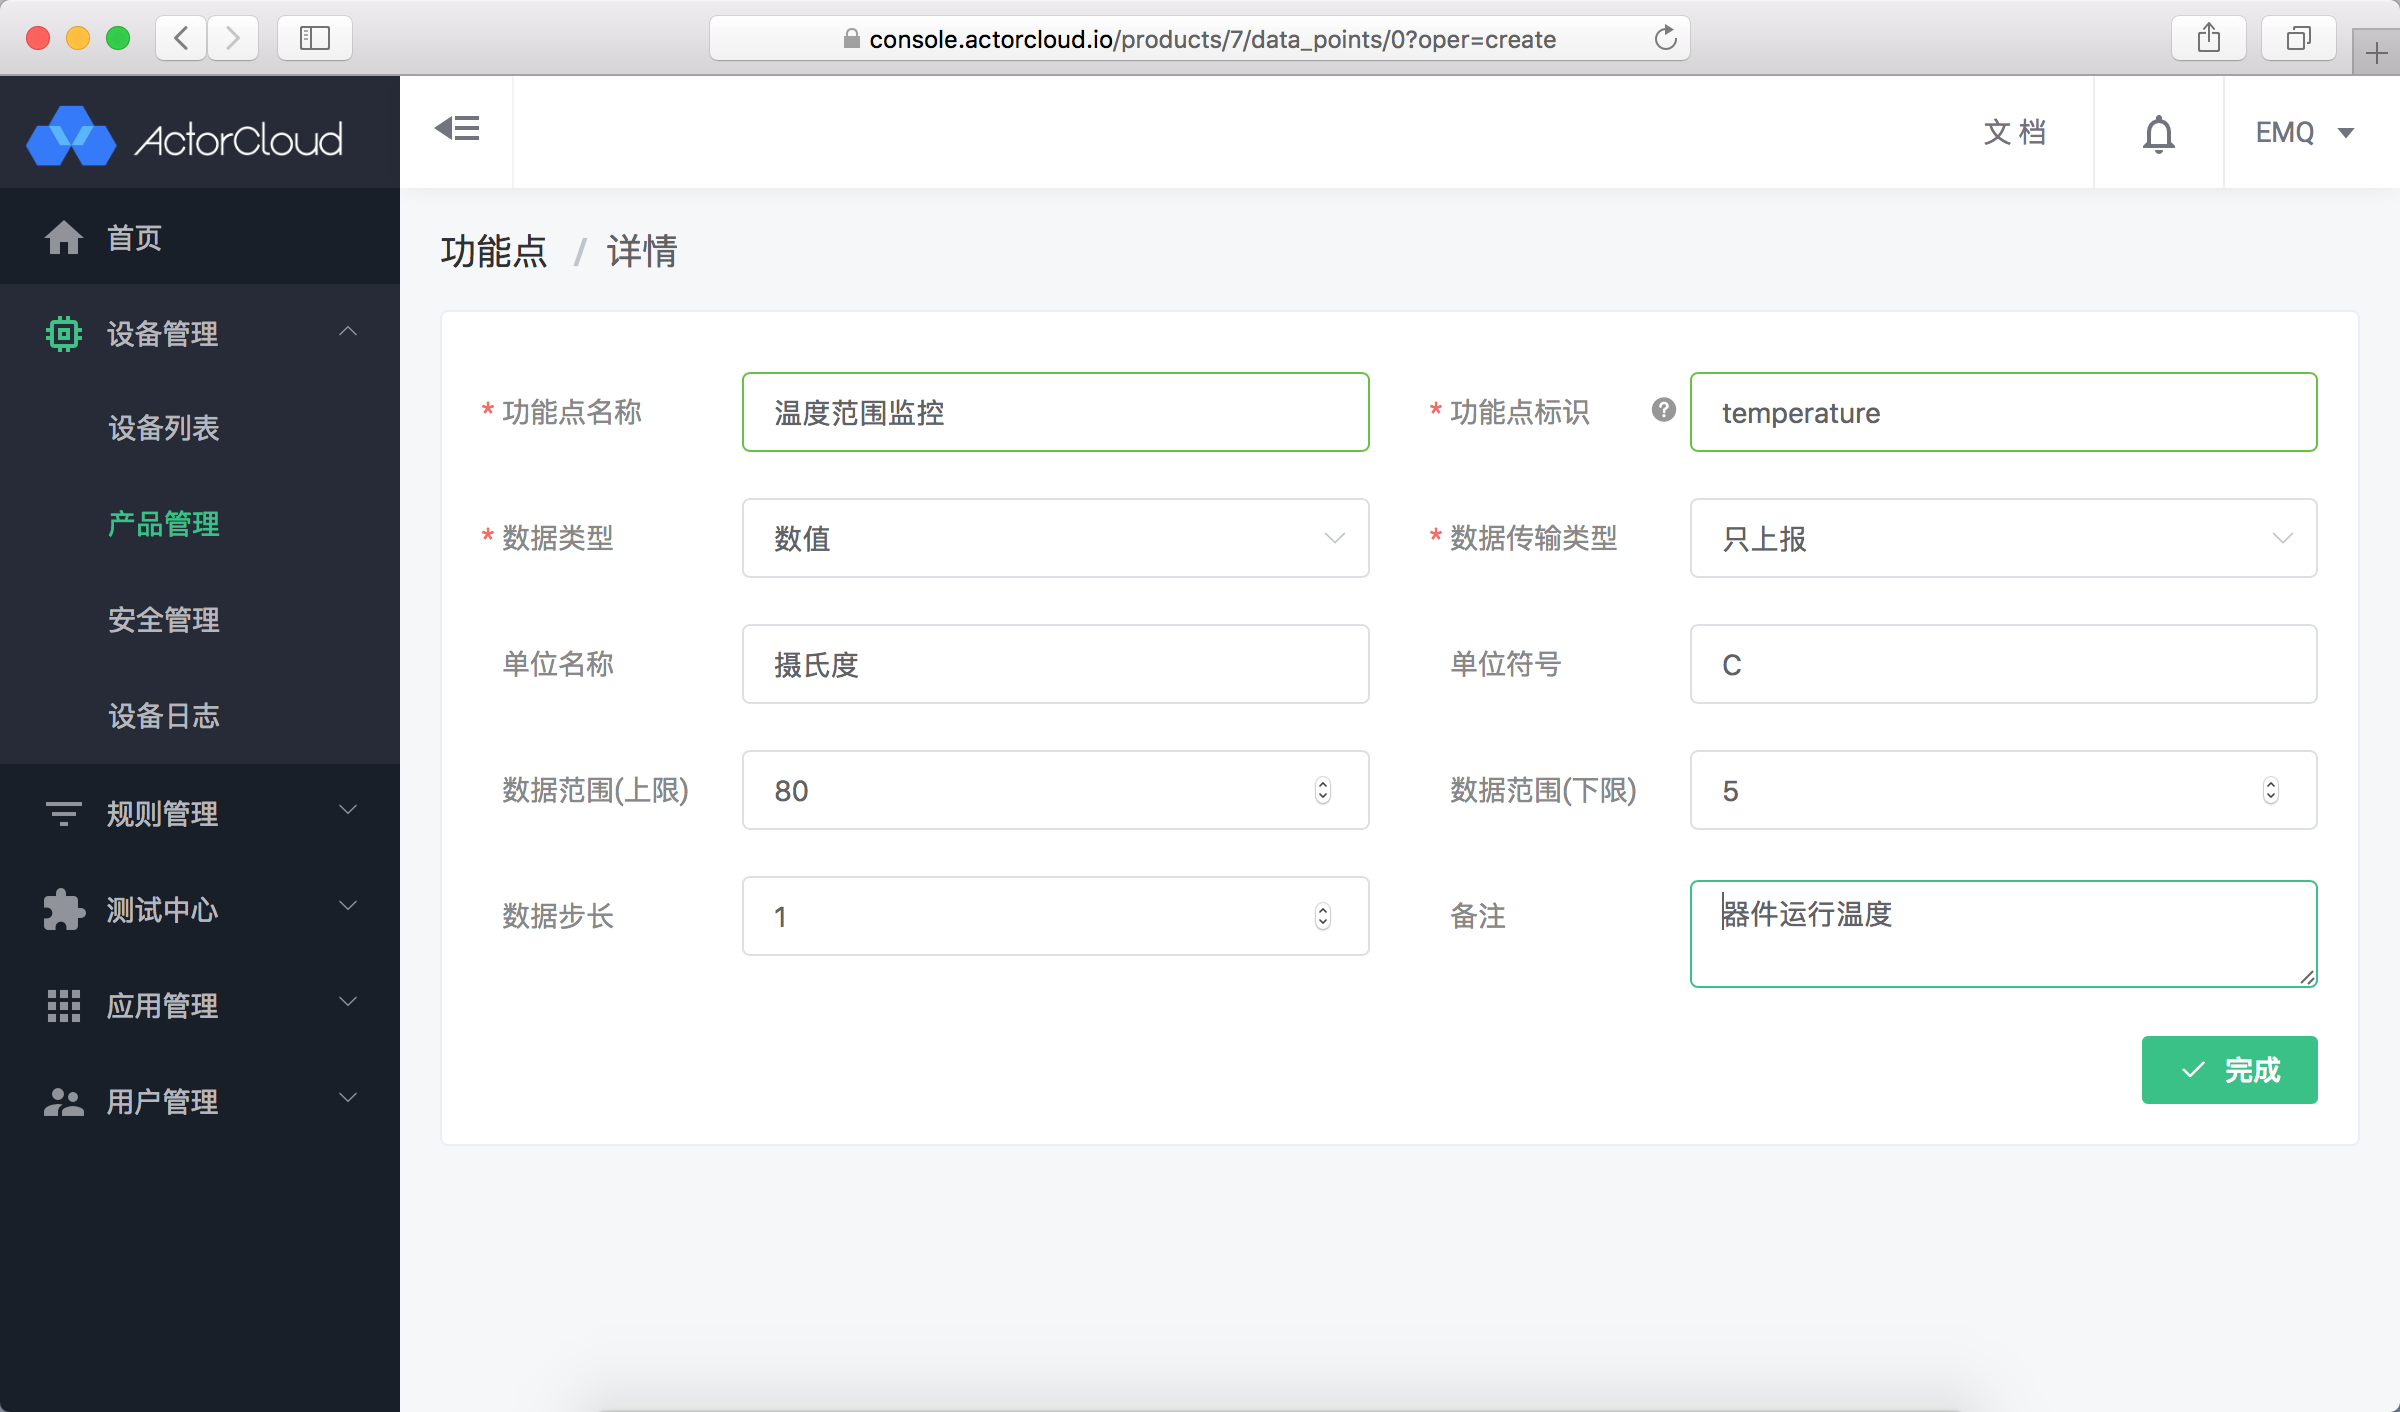
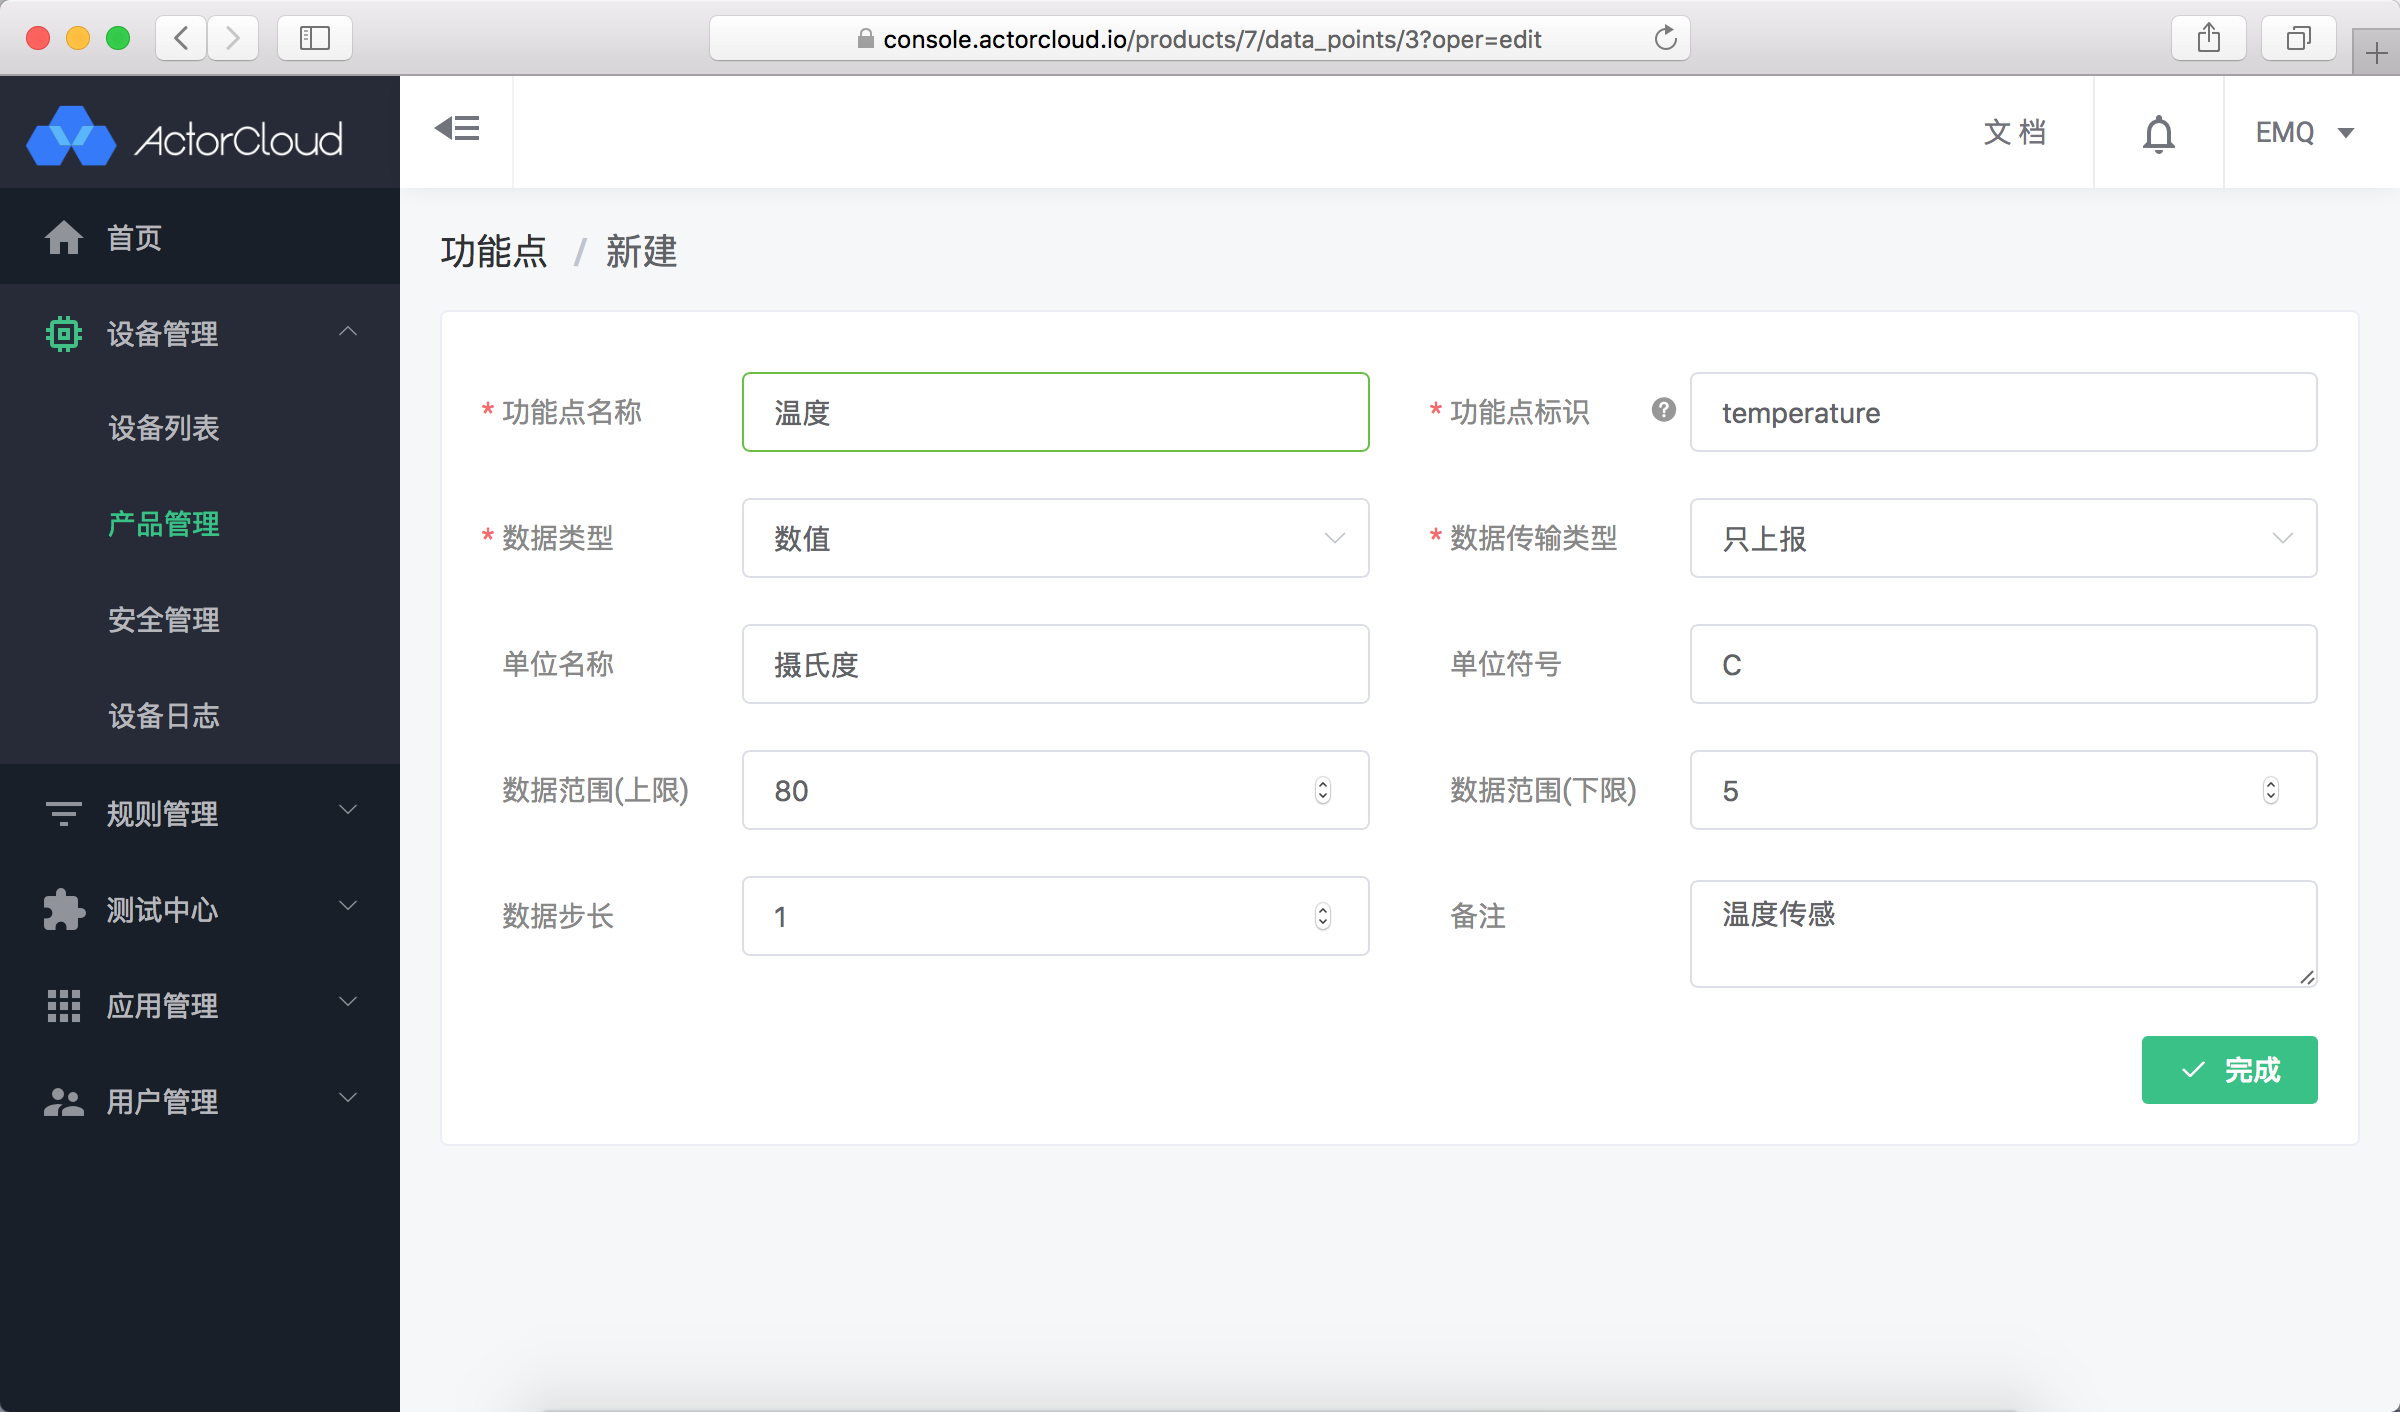
feat(rule engine): 修正功能点数据流

diff --git a/rule_engine/business_rules.md b/rule_engine/business_rules.md
@@ -1,22 +1,21 @@
 # 业务规则
 
-**ActorCloud** 支持预定义产品传输数据与业务规则，在设备通信中解析设备消息并检查匹配其告警规则，进行告警监控等业务。
+业务规则应用于每一条设备上报至平台的数据流，当数据流里的数据满足规则定义时触发相应的动作。
+创建业务规则前，需要预先定义功能点与数据流。
 
 ### 功能点
 
-点击产品详情页中的功能点即可查看该产品功能点列表。
+功能点为产品/设备具备的最细粒度的能力或用途，一个产品可以包含多个功能点，点击产品详情页中的功能点即可查看该产品功能点列表。
 
-功能点预先定义了产品在业务逻辑上的数据信息，即实现某个功能需要传输的数据格式、数据方向以及数据规则范围、数据含义等的定义，一个产品可以包含多个功能点。
 
 功能点定义关键信息如下：
 
-- 数据类型：该功能数据的格式，支持数值，枚举，字符串，故障，布尔值等，业务中必须传输 JSON 强类型数据；
-- 功能点标识：该功能数据在传输中使用的 JSON key 值；
-- 数据传输类型：即该功能数据传输方向，按照实际业务选择。
+- 数据类型：该功能数据的格式，支持数值，枚举，字符串，故障，布尔值等，业务中必须传输 JSON 类型数据；
+- 功能点标识：该功能数据在传输中使用的 JSON key 值。
 
 定义示例：
 
-- 某器件定期上报以监控器件运行温度，超出 5~80 摄氏度范围即需要干预处理，其上报 JSON 数据如下，`temperature` 即为功能点标识：
+- 某温度传感器需要定时上报温度信息，其上报 JSON 数据如下，`temperature` 即为功能点标识：
 
 ```
 {
@@ -32,18 +31,17 @@
 
 ### 数据流
 
-点击产品详情页中的数据流即可查看该产品数据流列表。
+数据流为产品/设备能够产生或消费的业务信息报文。
+一条数据流包含一个或个功能点，一个产品可以定义多个数据流，但是同一产品下的数据流主题不能重复，点击产品详情页中的数据流即可查看该产品数据流列表。
 
-数据流将多个使用同一主题通信的功能点组合在一起，可关联业务规则进行数据解析并匹配告警规则进行告警监控等业务。
 
 数据流定义关键信息如下：
 
-- 功能点：请选择使用同一主题通信且业务上相近的功能点；
-- 数据流主题：数据流用于通信的主题；
-- 流类型：数据方向（上报与下发）。
+- 功能点：该数据流包含的功能点，可多选；
+- 数据流主题：数据流用于通信的主题。
 
 定义示例：
 
-- 温度范围监控与紧急温度监控两个功能的数据都是通过 `/temperature` 主题上报，且其业务相近，可以组合为一个功能点：
+- 温湿度传感器需要上报温度与湿度信息，则数据流名称可以为温湿度数据流，功能点包含温度与湿度，主题为 `temp_hum`：
 
 ![](/assets/stream_create.png)

diff --git a/rule_engine/rule_engine.md b/rule_engine/rule_engine.md
@@ -2,5 +2,5 @@
 
 规则引擎用于定义接入设备数据流处理方案，包含有：
 
-- 用于数据流、数据监控[业务规则](business_rules.md)；
+- 用于数据流、数据监控的[业务规则](business_rules.md)；
 - 用于将特定数据持久化到外部存储的[消息规则](message_rules.md)。
